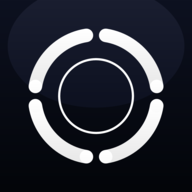
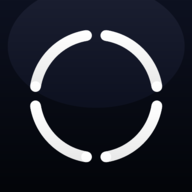
Add files via upload

diff --git a/index.html b/index.html
@@ -4877,21 +4877,18 @@ function OnboardingScreen({ onComplete, onCustomTasks, onSignIn, onEmailAuth, fi
                     <stop offset="1"  stopColor={th.text} stopOpacity="0.72" />
                   </linearGradient>
                 </defs>
-                {/* Ghost ring at 60% radius (r = 24) */}
-                <circle cx="50" cy="50" r="24" fill="none"
-                        stroke={th.text} strokeOpacity="0.12" strokeWidth="1" />
                 {/* Arc 1: 9° → 81° (right to bottom) — 18° gaps at cardinals */}
                 <path d="M 89.51 56.26 A 40 40 0 0 1 56.26 89.51"
-                      stroke="url(#pillarArcGrad)" strokeWidth="6" strokeLinecap="round" />
+                      stroke="url(#pillarArcGrad)" strokeWidth="4.5" strokeLinecap="round" />
                 {/* Arc 2: 99° → 171° (bottom to left) */}
                 <path d="M 43.74 89.51 A 40 40 0 0 1 10.49 56.26"
-                      stroke="url(#pillarArcGrad)" strokeWidth="6" strokeLinecap="round" />
+                      stroke="url(#pillarArcGrad)" strokeWidth="4.5" strokeLinecap="round" />
                 {/* Arc 3: 189° → 261° (left to top) */}
                 <path d="M 10.49 43.74 A 40 40 0 0 1 43.74 10.49"
-                      stroke="url(#pillarArcGrad)" strokeWidth="6" strokeLinecap="round" />
+                      stroke="url(#pillarArcGrad)" strokeWidth="4.5" strokeLinecap="round" />
                 {/* Arc 4: 279° → 351° (top to right) */}
                 <path d="M 56.26 10.49 A 40 40 0 0 1 89.51 43.74"
-                      stroke="url(#pillarArcGrad)" strokeWidth="6" strokeLinecap="round" />
+                      stroke="url(#pillarArcGrad)" strokeWidth="4.5" strokeLinecap="round" />
               </svg>
             </div>
             {/* Title + subtitle — fade in second */}
